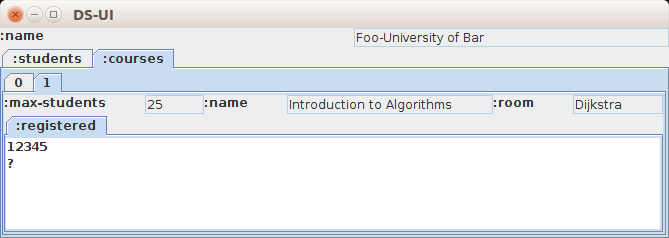
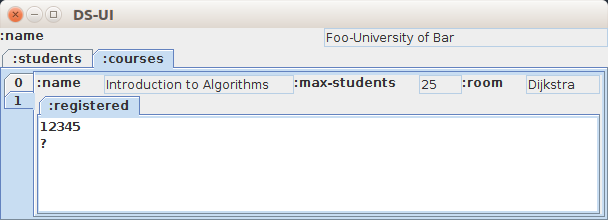
Enable DSUI to display conformed data

Changed region(s): [[0.0, 0.0273, 1.0, 1.0]]

diff --git a/README.md b/README.md
@@ -5,23 +5,33 @@ A Clojure tool for displaying nested data structures as a form-based UI. DSUI st
 - Toy project
 
 ## Motivation
-- Using it to avoid this:  
+Avoiding this:  
 ![Data in Cider](img/data_cider.png)
-- And to get this instead:  
+
+And getting this instead:  
 ![Data in DSUI](img/data_DSUI.png)
+
+## Features
+Displays
+- maps as forms, nested data structures a tabbed panes
+- sequential data (including vectors, lists and sets) as vertical tabbed panes with (0..n) as a title
+- lists containing only scalar values as JLists
+- Matrices (vector of vectors) as tables
+- Lists of maps, that have the same keyset and contain scalar values only, as tables
+- conformed data (labeled data) returned by specs as vertical tabbed panes with the label as a title. Thus it can be also used when writing specs
 
 ## How it works
 DSUI uses clojure.spec to "parse" an arbitrary data structure. The conformed data is used to generate the swing UI by calling a multimethod that polymorphically creates different types of UI elements.
 
-A more detailed explanation can be found <a href="https://feierabendprojekte.wordpress.com/2016/09/11/generating-ui-for-arbitrarily-nested-data-structures/">here</a>.
+A more detailed explanation can be found <a href="https://feierabendprojekte.wordpress.com/2016/09/11/generating-ui-for-arbitrarily-nested-data-structures/">here</a>
 
-## NextSteps
-- Handle map entries. This would allow DSUI to display data conformed by specs, including DSUI's own specs.
-- Handle heterogeneous lists containing scalar values alongside nested collections.
+## Next Steps
+- Make displaying conformed data consume less space, e.g. vertical text in tab titles
+- Handle heterogeneous lists containing scalar values alongside nested collections
 
 ## Distant Future
 - Attach to atom and let DSUI "watch" changes
-- Flow-model like incremental UI updates
+- Flow-model-like incremental UI updates
 - Make UI editable (e.g. swap value to an atom)
 
 ## License
